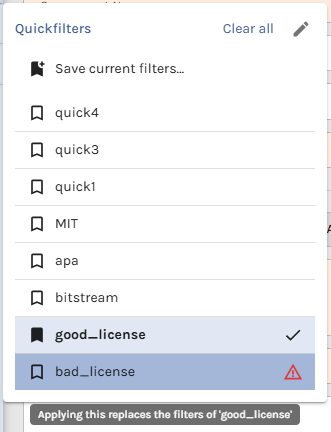
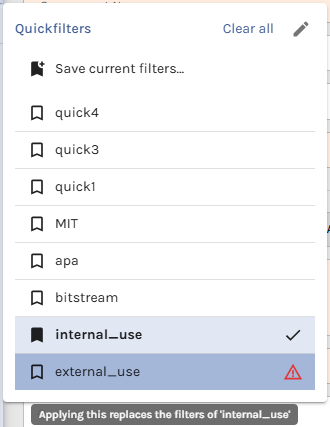
docs: make whatsnew more easy to understand

diff --git a/WHATS_NEW.md b/WHATS_NEW.md
@@ -20,9 +20,9 @@ field — can be saved under a name and reapplied with one click, so you do not
 have to set up the same filters each time you start a review.
 
 Set up the filters you want, open the filter menu, and choose **Save current
-filters…**. Give your quickfilter a name, and it is saved and applied right
-away, marked with a bookmark. Quickfilters are part of your personal user
-settings, so they stay available across sessions and projects.
+filters…**. Give your quickfilter a name, and it appears in the menu for future re-use. Quickfilters are part of your personal user settings,
+so they stay available across sessions and projects, and they are offered on
+all filter menus wherever they make sense.
 
 ![Filter menu with the Quickfilters submenu open and Save current filters… highlighted](docs/whats_new_screenshots/safe-flow.png 'Save the selected filters as a quickfilter.')
 
@@ -43,21 +43,9 @@ the filters you set by hand.
 
 ![Conflicting quickfilter with a warning icon and a tooltip explaining that applying it replaces the filters of another quickfilter](docs/whats_new_screenshots/conflict-warning.png 'Applying a conflicting quickfilter replaces the clashing filters.')
 
-## One set of quickfilters, all panels
-
-Quickfilters saved on one panel are also offered on the others wherever they
-make sense. A quickfilter based only on licenses works everywhere: on the
-attributions panel, the signals panel, and the resources tree. Conditions that
-only exist on one panel, such as 'only unreviewed files' for resources or a
-search term for attributions, keep the quickfilter on its own panel. A
-quickfilter that needs a classification missing in the current project, or one
-that uses criticality or classification while those are hidden, is shown
-disabled. Deleting a quickfilter deselects it on every panel where it was
-active.
-
 ## Manage your quickfilters
 
-Open the pencil icon in the quickfilters menu to rename, delete, and reorder
+Click on the pencil icon in the quickfilters menu to rename, delete, and reorder
 quickfilters by dragging them into the order that suits your workflow.
 
 ![Quickfilters edit mode with drag handles, rename, and delete controls](docs/whats_new_screenshots/edit-mode.png 'Rename, delete, and reorder quickfilters.')
